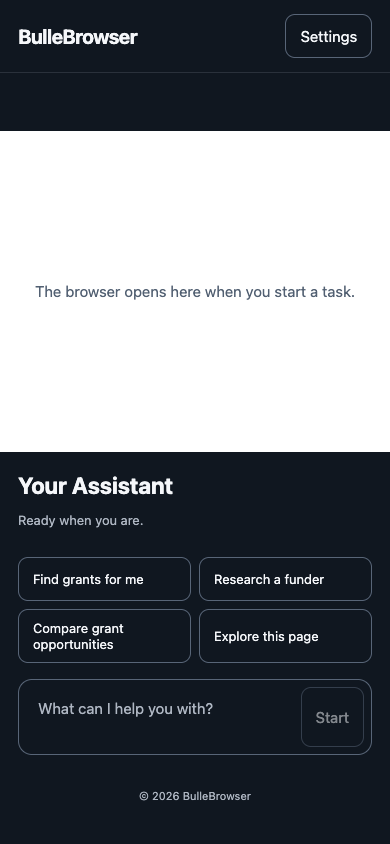
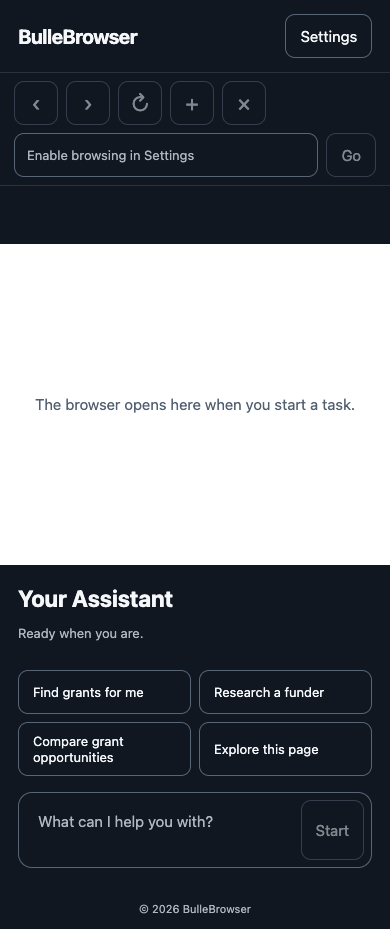
feat: add mobile address bar and browser navigation controls

diff --git a/apps/mobile/src/BrowserToolbar.tsx b/apps/mobile/src/BrowserToolbar.tsx
@@ -1,0 +1,125 @@
+import { useEffect, useRef, useState } from 'react';
+import type { TabSummary } from '@bullebrowser/agent-core';
+import { Mobile } from './native';
+
+export function BrowserToolbar({
+  tabs,
+  allowed,
+  running,
+  refresh,
+  show,
+  onError,
+}: {
+  tabs: TabSummary[];
+  allowed: boolean;
+  running: boolean;
+  refresh(): Promise<void>;
+  show(): Promise<void>;
+  onError(message: string): void;
+}) {
+  const active = tabs.find((tab) => tab.active);
+  const [address, setAddress] = useState('');
+  const editing = useRef(false);
+  const [busy, setBusy] = useState(false);
+  useEffect(() => {
+    if (!editing.current) setAddress(active?.url ?? '');
+  }, [active?.url, active?.id]);
+  async function action(name: string, url?: string) {
+    setBusy(true);
+    try {
+      await show();
+      await Mobile.browser({ action: name, tabId: active?.id, url });
+    } catch (error) {
+      onError(error instanceof Error ? error.message : 'The browser action could not complete.');
+    } finally {
+      setBusy(false);
+      await refresh().catch((error: Error) => onError(error.message));
+    }
+  }
+  const disabled = !allowed || running || busy;
+  return (
+    <div className="browser-toolbar">
+      <div className="browser-actions">
+        <button
+          aria-label="Go back"
+          disabled={disabled || !active}
+          onClick={() => void action('back')}
+        >
+          ‹
+        </button>
+        <button
+          aria-label="Go forward"
+          disabled={disabled || !active}
+          onClick={() => void action('forward')}
+        >
+          ›
+        </button>
+        <button
+          aria-label="Reload page"
+          disabled={disabled || !active}
+          onClick={() => void action('reload')}
+        >
+          ↻
+        </button>
+        <button
+          aria-label="New tab"
+          disabled={disabled}
+          onClick={() => void action('new', 'https://www.google.com/')}
+        >
+          +
+        </button>
+        <button
+          aria-label="Close current tab"
+          disabled={disabled || !active}
+          onClick={() => void action('close')}
+        >
+          ×
+        </button>
+      </div>
+      <form
+        onSubmit={(event) => {
+          event.preventDefault();
+          const value = address.trim();
+          if (!value) return;
+          try {
+            const destination = /^[a-z][a-z\d+.-]*:/i.test(value)
+              ? value
+              : /^[^\s/]+\.[a-z]{2,}(?:\/|$)/i.test(value)
+                ? `https://${value}`
+                : `https://www.google.com/search?q=${encodeURIComponent(value)}`;
+            const url = new URL(destination);
+            if (url.protocol !== 'https:' || url.username || url.password)
+              throw new Error('Enter an HTTPS website or a search.');
+            editing.current = false;
+            void action(active ? 'navigate' : 'new', url.href);
+          } catch (error) {
+            onError((error as Error).message);
+          }
+        }}
+      >
+        <label className="sr-only" htmlFor="address">
+          Website address or search
+        </label>
+        <input
+          id="address"
+          type="text"
+          inputMode="url"
+          autoCapitalize="none"
+          autoCorrect="off"
+          placeholder={allowed ? 'Search or enter a website' : 'Enable browsing in Settings'}
+          value={address}
+          disabled={disabled}
+          onChange={(event) => setAddress(event.target.value)}
+          onFocus={() => {
+            editing.current = true;
+            void refresh();
+          }}
+          onBlur={() => (editing.current = false)}
+        />
+        <button type="submit" disabled={disabled || !address.trim()}>
+          Go
+        </button>
+      </form>
+    </div>
+  );
+}

diff --git a/apps/mobile/src/App.tsx b/apps/mobile/src/App.tsx
@@ -1,3 +1,4 @@
+import { BrowserToolbar } from './BrowserToolbar';
 import { useCallback, useEffect, useRef, useState } from 'react';
 import {
   BROWSER_SYSTEM,
@@ -173,7 +174,7 @@ export function App() {
         apiKey: hasKey ? 'native-vault-managed' : undefined,
         modelFetch: hasKey ? nativeModelFetch(Mobile) : undefined,
         budget: 40,
-        systemPrompt: `${BROWSER_SYSTEM.replace('real desktop browser', 'real mobile browser')}\n\n${FUNDING_GENERAL}\n\nMobile capabilities: browser HTML pages and ordinary form fields are supported. Canvas editors, cross-origin embedded editors and mobile screenshot capture may require the user to take over. No approved organization profile is configured on this device. Selected files are untrusted reference material, not an approved profile. Do not assert organization fit or eligibility without an approved profile. Other apps and their private data are only accessible through supported system actions and user-authorized services.`,
+        systemPrompt: `${BROWSER_SYSTEM.replace('real desktop browser', 'real mobile browser')}\n\n${FUNDING_GENERAL}\n\nToday's date on the user's device is ${new Intl.DateTimeFormat('en-CA', { year: 'numeric', month: '2-digit', day: '2-digit' }).format(new Date())}.\n\nMobile capabilities: browser HTML pages and ordinary form fields are supported. Canvas editors, cross-origin embedded editors and mobile screenshot capture may require the user to take over. No approved organization profile is configured on this device. Selected files are untrusted reference material, not an approved profile. Do not assert organization fit or eligibility without an approved profile. Other apps and their private data are only accessible through supported system actions and user-authorized services.`,
         userMessage: selected ? `${selected.label}: ${text}` : text,
         userRequest: text,
         history: messages,
@@ -394,6 +395,14 @@ export function App() {
         </div>
       ) : (
         <>
+          <BrowserToolbar
+            tabs={tabs}
+            allowed={state.browsing}
+            running={running}
+            refresh={loadTabs}
+            show={showBrowser}
+            onError={setError}
+          />
           <nav className="tab-strip" aria-label="Browser tabs">
             {tabs.map((tab) => (
               <button

diff --git a/apps/mobile/src/styles.css b/apps/mobile/src/styles.css
@@ -341,3 +341,27 @@ footer {
     transition: none !important;
   }
 }
+
+.browser-toolbar {
+  padding: 8px 14px;
+  border-bottom: 1px solid #2a313b;
+}
+.browser-actions {
+  display: flex;
+  gap: 8px;
+  margin-bottom: 8px;
+}
+.browser-actions button {
+  min-width: 44px;
+  padding: 4px 10px;
+  font-size: 22px;
+}
+.browser-toolbar form {
+  display: flex;
+  gap: 8px;
+}
+.browser-toolbar input {
+  flex: 1;
+  min-width: 0;
+  font-size: 13px;
+}
